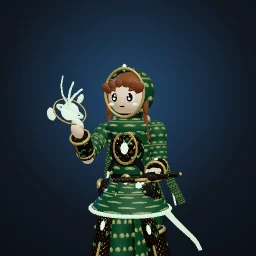
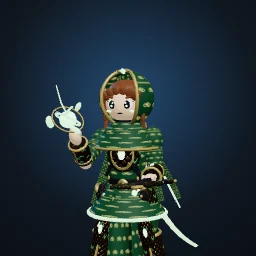
feat(client): give elna a deep lined hood with a shoulder cape

Changed region(s): [[0.1562, 0.25, 0.7812, 1.0]]

diff --git a/apps/client/src/scene/Swordsman.ts b/apps/client/src/scene/Swordsman.ts
@@ -1235,23 +1235,32 @@ export class Swordsman {
       this.streamers.push(this.buildStreamer(tip, [0, 0, 0], 4, 0.16, 0.02, ribbon, 0.9, 0.8, spread));
   }
 
-  /** The healer's hood: a deep cowl over her hair, rimmed in metal round the face, peaked behind, a leaf of light at the brow. */
+  /** The healer's hood: a deep, lined cowl standing clear of her hair, its edge rolled in metal, a long point behind and a leaf of light at the brow. */
   private buildHood(): void {
-    const { cloth, trim, gem, hair } = this.materials;
+    const { cloth, trim, gem, hair, dark } = this.materials;
     this.buildFringe();
     for (const side of [-1, 1])
       this.streamers.push(
         this.buildStreamer(this.head, [side * 0.15, 0.12, 0.06], 6, 0.3, 0.05, hair, 0.4, 0.4, side * 0.1),
       );
-    // A shell round the head with a gap left open down the front for the face.
-    const gap = 0.95;
-    const shell = new SphereGeometry(1, 26, 16, UP + gap, Math.PI * 2 - gap * 2);
-    this.mesh(shell, cloth, this.head, [0, 0.19, -0.012], [0, 0, 0], [0.204, 0.205, 0.2]);
-    this.mesh(new TorusGeometry(0.166, 0.012, 8, 30), trim, this.head, [0, 0.19, 0.106], [0, 0, 0], [1, 1.16, 1]);
-    this.mesh(new ConeGeometry(0.1, 0.24, 12), cloth, this.head, [0, 0.31, -0.17], [-1.05, 0, 0]);
-    this.ball(gem, this.head, [0, 0.39, 0.1], [0.02, 0.03, 0.01]);
+    // A deep cowl: a full shell standing well clear of the hair, open down the front so the face sits
+    // back inside it, lined in shadow, its edge rolled in metal.
+    const gap = 0.72;
+    const reach = 0.234;
+    const centre: [number, number, number] = [0, 0.2, -0.02];
+    const shell = new SphereGeometry(1, 28, 18, UP + gap, Math.PI * 2 - gap * 2);
+    this.mesh(shell, cloth, this.head, centre, [0, 0, 0], [reach, reach, reach]);
+    this.mesh(shell, dark, this.head, centre, [0, 0, 0], [reach - 0.014, reach - 0.014, reach - 0.014]);
+    // The rolled edge runs from crown to chin down each side of the opening.
+    for (const turn of [gap - UP, -UP - gap])
+      this.mesh(new TorusGeometry(reach, 0.016, 8, 26, Math.PI), trim, this.head, centre, [0, turn, -UP]);
+    // The point of the hood falls behind, weighted with a bead.
+    this.mesh(new ConeGeometry(0.14, 0.32, 14), cloth, this.head, [0, 0.33, -0.2], [-1.2, 0, 0]);
+    this.ball(trim, this.head, [0, 0.265, -0.345], [0.02, 0.02, 0.02]);
+    // A leaf of light where the two edges meet over the brow.
+    this.ball(gem, this.head, [0, 0.425, 0.06], [0.022, 0.034, 0.012], [0.9, 0, 0]);
     for (const side of [-1, 1])
-      this.ball(trim, this.head, [side * 0.03, 0.38, 0.1], [0.022, 0.01, 0.008], [0, 0, side * 0.6]);
+      this.ball(trim, this.head, [side * 0.032, 0.42, 0.055], [0.024, 0.011, 0.009], [0.9, 0, side * 0.6]);
   }
 
   /** A staff taller than she is in the right hand, and a spell book floating open over the left. */
@@ -1439,6 +1448,16 @@ export class Swordsman {
       }
     }
     if (this.kind === 'healer') {
+      // The hood runs down into a short cape over the shoulders, edged in metal.
+      this.mesh(
+        new CylinderGeometry(0.085, 0.2, 0.1, 24, 1, true),
+        cloth,
+        this.chest,
+        [0, 0.2, -0.005],
+        [0, 0, 0],
+        [1, 1, 0.85],
+      );
+      this.mesh(new TorusGeometry(0.2, 0.009, 6, 32), trim, this.chest, [0, 0.152, -0.005], [UP, 0, 0], [1, 0.85, 1]);
       // A satchel on a strap across the body, and vials of light along the belt.
       this.mesh(
         new CylinderGeometry(0.012, 0.012, 0.3, 6),
